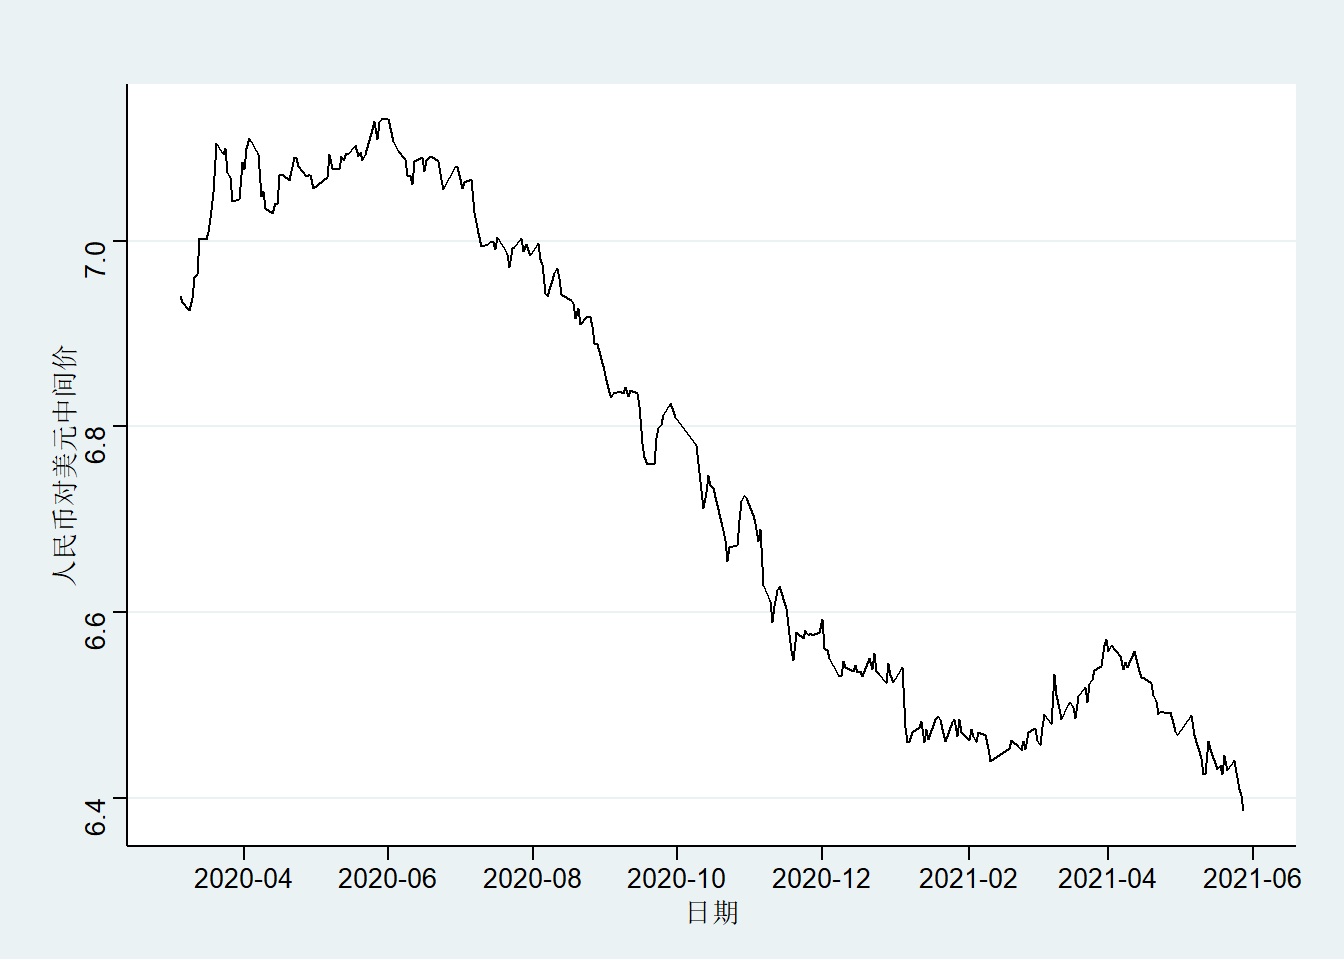
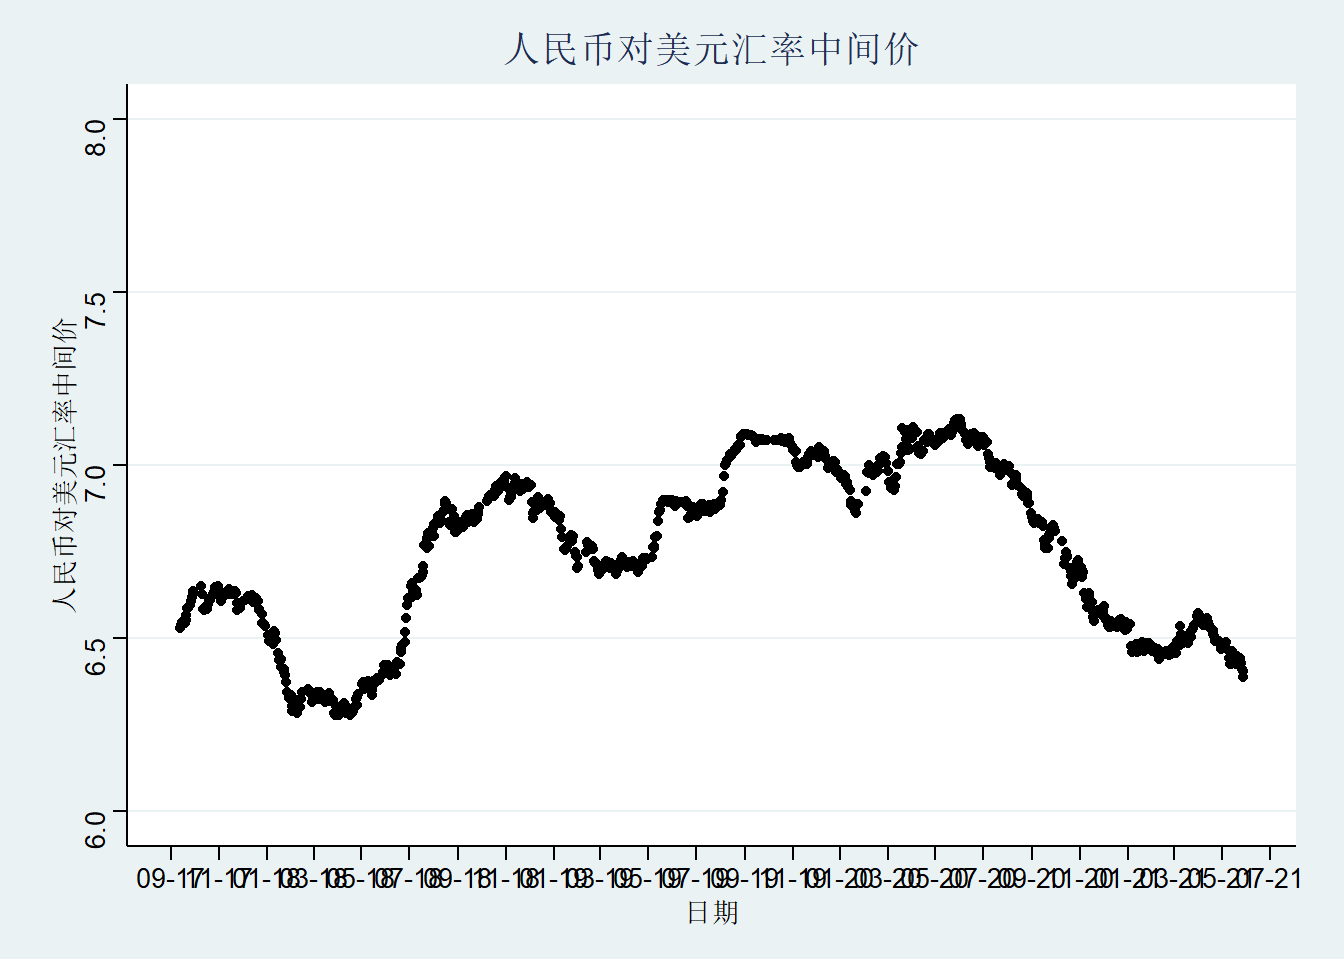
20210601

diff --git a/content/ProgramR/ggplot坐标轴.html b/content/ProgramR/ggplot坐标轴.html
@@ -1,0 +1,143 @@
+---
+author:
+  - 水滴
+title: 'ggplot坐标轴的修改'
+date: 2021-05-11
+categories:
+  - R
+  - ggplot
+  - 坐标轴
+tags:
+  - R
+  - ggplot
+  - 坐标轴
+slug: ggplot_axis
+weight: 0004
+description: 使用R语言链接Mysql数据库进行数据查询
+--- 
+
+<script src="/rmarkdown-libs/header-attrs/header-attrs.js"></script>
+
+
+<div id="近期汇率走势" class="section level1">
+<h1>近期汇率走势</h1>
+<div id="人民币汇率走势" class="section level2">
+<h2>人民币汇率走势</h2>
+<p><font face="思源宋体 CN" size=4></p>
+<pre class="r"><code>tail(CNYUS)</code></pre>
+<pre><code>##           日期 中间价:美元兑人民币
+## 895 2017-09-19              6.5530
+## 896 2017-09-18              6.5419
+## 897 2017-09-15              6.5423
+## 898 2017-09-14              6.5465
+## 899 2017-09-13              6.5382
+## 900 2017-09-12              6.5277</code></pre>
+<pre class="r"><code>library(showtextdb)
+library(sysfonts)
+library(showtext)
+library(ggthemes)
+library(ggThemeAssist)
+gg &lt;- ggplot(CNYUS, aes(x = 日期, y = `中间价:美元兑人民币`))+
+      geom_line()+
+      scale_y_continuous(limits=c(6.2,7.25),expand=c(0,0))+
+      scale_x_date(date_labels = &quot;%m-%y&quot;,date_breaks = &quot;2 month&quot;,expand=c(0,0))+
+      labs(x = &quot;日期&quot;, 
+           y = &quot;人民币对美元汇率中间价&quot;,
+           title =&quot;图1 人民币对美元汇率中间价&quot;,fill=&quot;&quot;);
+gg &lt;-gg+theme_stata()</code></pre>
+<pre class="r"><code>font_add(&quot;SourceHanSerifCN-Light&quot;, &quot;SourceHanSerifCN-Light.otf&quot;)
+gg &lt;-gg+
+  theme(plot.background = element_rect(fill = &quot;antiquewhite&quot;,colour = NA, linetype = &quot;solid&quot;),
+        plot.title = element_text(hjust = 0.5),
+        text = element_text(size = 8,family=&quot;SourceHanSerifCN-Light&quot;));
+gg</code></pre>
+<p><img src="/ProgramR/ggplot坐标轴_files/figure-html/unnamed-chunk-3-1.png" width="672" style="display: block; margin: auto;" /></p>
+</div>
+<div id="美元汇率走势" class="section level2">
+<h2>美元汇率走势</h2>
+<pre class="r"><code>tail(US_index)</code></pre>
+<pre><code>##           日期 美元指数
+## 895 2017-12-22  93.2987
+## 896 2017-12-21  93.2662
+## 897 2017-12-20  93.3607
+## 898 2017-12-19  93.4576
+## 899 2017-12-18  93.7026
+## 900 2017-12-15  93.9475</code></pre>
+<pre class="r"><code>library(showtextdb)
+library(sysfonts)
+library(showtext)
+library(ggthemes)
+gg &lt;- ggplot(US_index, aes(x = 日期, y = `美元指数`))+
+      geom_line()+
+      scale_y_continuous(limits=c(85,105),expand=c(0,0))+
+      scale_x_date(date_labels = &quot;%m-%y&quot;,date_breaks = &quot;2 month&quot;,expand=c(0,0))+
+      labs(x = &quot;日期&quot;, 
+           y = &quot;美元汇率指数&quot;,
+           title =&quot;图2 美元汇率指数&quot;,fill=&quot;&quot;);
+gg &lt;-gg+theme_stata()</code></pre>
+<pre class="r"><code>font_add(&quot;SourceHanSerifCN-Light&quot;, &quot;SourceHanSerifCN-Light.otf&quot;)
+gg &lt;-gg+
+  theme(plot.background = element_rect(fill = &quot;antiquewhite&quot;,colour = NA, linetype = &quot;solid&quot;),
+        plot.title = element_text(hjust = 0.5),
+        text = element_text(size = 8,family=&quot;SourceHanSerifCN-Light&quot;));
+gg</code></pre>
+<p><img src="/ProgramR/ggplot坐标轴_files/figure-html/unnamed-chunk-6-1.png" width="672" style="display: block; margin: auto;" /></p>
+<pre class="r"><code>CNYUS_US_index&lt;-merge(CNYUS,US_index,by=&quot;日期&quot;)
+colnames(CNYUS_US_index)&lt;-c(&quot;date&quot;,&quot;Firm_stock_price&quot;,&quot;Index_price&quot;)
+Firm_stock_price_Index_price&lt;-CNYUS_US_index
+head(Firm_stock_price_Index_price)</code></pre>
+<pre><code>##         date Firm_stock_price Index_price
+## 1 2017-12-15           6.6113     93.9475
+## 2 2017-12-18           6.6162     93.7026
+## 3 2017-12-19           6.6098     93.4576
+## 4 2017-12-20           6.6066     93.3607
+## 5 2017-12-21           6.5795     93.2662
+## 6 2017-12-22           6.5821     93.2987</code></pre>
+</div>
+</div>
+<div id="双坐标轴图" class="section level1">
+<h1>双坐标轴图</h1>
+<pre class="r"><code>Firm_stock_price_ceiling&lt;-ceiling(range(Firm_stock_price_Index_price$Firm_stock_price)[2])
+Firm_stock_price_floor&lt;-floor(range(Firm_stock_price_Index_price$Firm_stock_price)[1])
+Firm_stock_price_interval&lt;-(Firm_stock_price_ceiling-Firm_stock_price_floor)/10
+
+#指数数据
+Index_ceiling&lt;-ceiling(range(Firm_stock_price_Index_price$Index_price)[2])
+Index_floor&lt;-floor(range(Firm_stock_price_Index_price$Index_price)[1])
+Index_interval&lt;-(Index_ceiling-Index_floor)/10
+
+#乘子
+multiplicator&lt;-Index_ceiling/Firm_stock_price_ceiling
+
+font_add(&quot;SourceHanSerifCN-Light&quot;, &quot;SourceHanSerifCN-Light.otf&quot;)
+gg&lt;-ggplot()+
+  geom_line(data=Firm_stock_price_Index_price,aes(x=date,y=Firm_stock_price),stat=&quot;identity&quot;,size=0.5,color=&quot;red&quot;)+
+  geom_line(data=Firm_stock_price_Index_price,aes(x=date,y=Index_price/multiplicator),size=0.5,color=&quot;blue&quot;)+
+  scale_y_continuous(
+    limits = c(Firm_stock_price_floor, Firm_stock_price_ceiling),
+    breaks = c(seq(Firm_stock_price_floor,Firm_stock_price_ceiling,Firm_stock_price_interval)),
+     label=seq(Firm_stock_price_floor,Firm_stock_price_ceiling,Firm_stock_price_interval),
+     sec.axis=sec_axis(~./0.99,name=&quot;美元汇率指数（蓝色）&quot;,
+          breaks =c(seq(Firm_stock_price_floor,Firm_stock_price_ceiling,Firm_stock_price_interval)),
+          label=seq(round(Index_floor,2),Index_ceiling,Index_interval))
+    ,
+    expand=c(0,0))+
+  #设置X轴的标签
+  scale_x_date(limits = c(Firm_stock_price_Index_price$date[1],Sys.Date()),date_labels = &quot;%m-%y&quot;,date_breaks = &quot;2 month&quot;,expand=c(0,0))+
+  labs(x = &quot;日期&quot;, 
+       y = &quot;人民币对美元汇率（红色）&quot;,
+       title =&quot;图3 人民币兑美元汇率 VS 人民币汇率指数&quot;,
+       caption = &quot;数据来源：iFind数据库。&quot;,
+       tag = &quot;这是附注&quot;,
+       fill=&quot;&quot;)
+gg &lt;-gg+theme_stata()</code></pre>
+<pre class="r"><code>font_add(&quot;SourceHanSerifCN-Light&quot;, &quot;SourceHanSerifCN-Light.otf&quot;)
+gg &lt;-gg+
+  theme(plot.background = element_rect(fill = &quot;antiquewhite&quot;,colour = NA, linetype = &quot;solid&quot;),
+        plot.title = element_text(hjust = 0.5),
+        plot.caption = element_text(hjust = 0,size = 8),
+        plot.tag.position = &quot;bottomright&quot;,
+        text = element_text(size = 8,family=&quot;SourceHanSerifCN-Light&quot;));
+gg</code></pre>
+<p><img src="/ProgramR/ggplot坐标轴_files/figure-html/unnamed-chunk-9-1.png" width="672" style="display: block; margin: auto;" /></p>
+</div>

diff --git a/content/Capital/人民币汇率观察.html b/content/Capital/人民币汇率观察.html
@@ -29,18 +29,19 @@ library(sysfonts)
 library(showtext)
 library(ggthemes)
 gg &lt;- ggplot(CNYUS, aes(x = 日期, y = `中间价:美元兑人民币`))+
-      geom_line()+
+      geom_point()+
+      scale_y_continuous(limits=c(6,8))+
       scale_x_date(date_labels = &quot;%m-%y&quot;,date_breaks = &quot;2 month&quot;)+
       labs(x = &quot;日期&quot;, 
            y = &quot;人民币对美元汇率中间价&quot;,
            title =&quot;人民币对美元汇率中间价&quot;,fill=&quot;&quot;);
-gg &lt;-gg+theme_stata()</code></pre>
+gg &lt;-gg+theme_stata()
+gg</code></pre>
+<p><img src="/Capital/人民币汇率观察_files/figure-html/unnamed-chunk-2-1.png" width="672" /></p>
 <pre class="r"><code>font_add(&quot;SourceHanSerifCN-Light&quot;, &quot;SourceHanSerifCN-Light.otf&quot;)
 gg &lt;-gg+
   theme(plot.title = element_text(hjust = 0.5),
-        text = element_text(size = 8,family=&quot;SourceHanSerifCN-Light&quot;));
-gg</code></pre>
-<p><img src="/Capital/人民币汇率观察_files/figure-html/unnamed-chunk-3-1.png" width="672" style="display: block; margin: auto;" /></p>
+        text = element_text(size = 8,family=&quot;SourceHanSerifCN-Light&quot;));</code></pre>
 </div>
 <div id="美元汇率走势" class="section level2">
 <h2>美元汇率走势</h2>
@@ -50,6 +51,7 @@ library(showtext)
 library(ggthemes)
 gg &lt;- ggplot(US_index, aes(x = 日期, y = `美元指数`))+
       geom_line()+
+      
       scale_x_date(date_labels = &quot;%m-%y&quot;,date_breaks = &quot;2 month&quot;)+
       labs(x = &quot;日期&quot;, 
            y = &quot;美元汇率指数&quot;,
@@ -66,7 +68,7 @@ gg</code></pre>
 <div id="张明人民币兑美元升值还会一直持续吗" class="section level1">
 <h1>张明：人民币兑美元升值还会一直持续吗？</h1>
 <blockquote>
-<p>　　<font face="思源宋体 CN" >2021年4、5月，人民币兑美元显著升值。2021年3月31日至5月27日，人民币兑美元汇率中间价由6.5713上升至6.4030，升值幅度达到2.6%。5月28日，人民币兑美元汇率中间价突破了6.40这一关口，达到自2018年6月以来的新高。<a href="#fn1" class="footnote-ref" id="fnref1"><sup>1</sup></a><font size=2></p>
+<p>　　2021年4、5月，人民币兑美元显著升值。2021年3月31日至5月27日，人民币兑美元汇率中间价由6.5713上升至6.4030，升值幅度达到2.6%。5月28日，人民币兑美元汇率中间价突破了6.40这一关口，达到自2018年6月以来的新高。<a href="#fn1" class="footnote-ref" id="fnref1"><sup>1</sup></a></p>
 </blockquote>
 <p>　　2021年4、5月，人民币兑美元显著升值。2021年3月31日至5月27日，人民币兑美元汇率中间价由6.5713上升至6.4030，升值幅度达到2.6%。5月28日，人民币兑美元汇率中间价突破了6.40这一关口，达到自2018年6月以来的新高。笔者认为，2021年第二季度人民币兑美元汇率的显著升值，主要原因包括美元指数显著回调、短期证券投资基金大量涌入、贸易顺差持续处于高位等。</p>
 <p>　　<font color=blue >美元指数自身显著回调，是人民币兑美元汇率升值的主要原因之一。</font>2021年3月31日至5月27日，美元指数由93.23下降至89.97，贬值了3.5%。不难看出，同期内人民币兑美元汇率升值幅度低于美元指数贬值幅度，这说明美元指数贬值是人民币兑美元汇率升值的最重要原因。事实上，2021年3月31日至5月21日，欧元、英镑、日元兑美元汇率分别升值了3.7%、2.6%与1.5%。同期内人民币兑美元汇率升值了2.2%，升值幅度显著低于欧元与英镑。美元指数回落的原因，一是美国长期国债利率的回调。2021年3月31日至5月27日，10年期美国国债收益率由1.74%下降至1.61%。二是全球范围内不确定性的回落。用现价GDP加权的全球经济政策不确定性指数由2021年3月的212.85下降至4月的197.26，降幅达到7.3%。</p>

diff --git a/static/Capital/人民币汇率观察1_files/header-attrs/header-attrs.js b/static/Capital/人民币汇率观察1_files/header-attrs/header-attrs.js
@@ -1,0 +1,12 @@
+// Pandoc 2.9 adds attributes on both header and div. We remove the former (to
+// be compatible with the behavior of Pandoc < 2.8).
+document.addEventListener('DOMContentLoaded', function(e) {
+  var hs = document.querySelectorAll("div.section[class*='level'] > :first-child");
+  var i, h, a;
+  for (i = 0; i < hs.length; i++) {
+    h = hs[i];
+    if (!/^h[1-6]$/i.test(h.tagName)) continue;  // it should be a header h1-h6
+    a = h.attributes;
+    while (a.length > 0) h.removeAttribute(a[0].name);
+  }
+});
